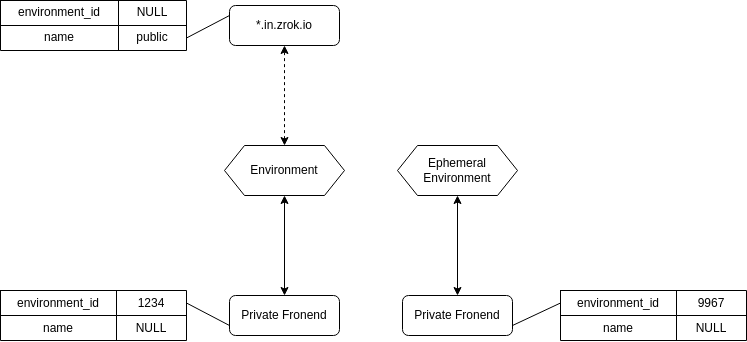
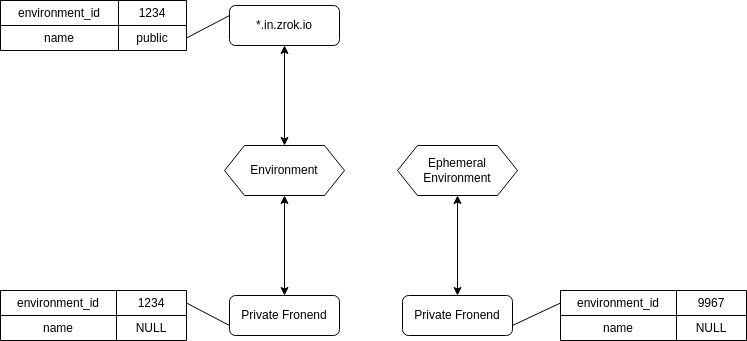
store.Frontend (#98, #88)

diff --git a/controller/store/frontend.go b/controller/store/frontend.go
@@ -1,0 +1,69 @@
+package store
+
+import (
+	"github.com/jmoiron/sqlx"
+	"github.com/pkg/errors"
+)
+
+type Frontend struct {
+	Model
+	EnvironmentId int
+	ZId           string
+	Name          *string
+}
+
+func (str *Store) CreateFrontend(envId int, f *Frontend, tx *sqlx.Tx) (int, error) {
+	stmt, err := tx.Prepare("insert into frontends (environment_id, z_id, name) values ($1, $2, $3) returning id")
+	if err != nil {
+		return 0, errors.Wrap(err, "error preparing frontends insert statement")
+	}
+	var id int
+	if err := stmt.QueryRow(envId, f.ZId, f.Name).Scan(&id); err != nil {
+		return 0, errors.Wrap(err, "error executing frontends insert statement")
+	}
+	return id, nil
+}
+
+func (str *Store) GetFrontend(id int, tx *sqlx.Tx) (*Frontend, error) {
+	i := &Frontend{}
+	if err := tx.QueryRowx("select * from frontends where id = $1", id).StructScan(i); err != nil {
+		return nil, errors.Wrap(err, "error selecting frontend by id")
+	}
+	return i, nil
+}
+
+func (str *Store) FindFrontendNamed(name string, tx *sqlx.Tx) (*Frontend, error) {
+	i := &Frontend{}
+	if err := tx.QueryRowx("select frontends.* from frontends where name = $1", name).Scan(i); err != nil {
+		return nil, errors.Wrap(err, "error selecting frontend by name")
+	}
+	return i, nil
+}
+
+func (str *Store) FindFrontendsForEnvironment(envId int, tx *sqlx.Tx) ([]*Frontend, error) {
+	rows, err := tx.Queryx("select frontends.* from frontends where environment_id = $1", envId)
+	if err != nil {
+		return nil, errors.Wrap(err, "error selecting frontends by environment_id")
+	}
+	var is []*Frontend
+	for rows.Next() {
+		i := &Frontend{}
+		if err := rows.StructScan(i); err != nil {
+			return nil, errors.Wrap(err, "error scanning frontend")
+		}
+		is = append(is, i)
+	}
+	return is, nil
+}
+
+func (str *Store) DeleteFrontend(id int, tx *sqlx.Tx) error {
+	stmt, err := tx.Prepare("delete from frontends where id = $1")
+	if err != nil {
+		return errors.Wrap(err, "error preparing frontends delete statement")
+	}
+	_, err = stmt.Exec(id)
+	if err != nil {
+		return errors.Wrap(err, "error executing frontends delete statement")
+	}
+	return nil
+}

diff --git a/controller/store/frontend_test.go b/controller/store/frontend_test.go
@@ -1,0 +1,1 @@
+package store

diff --git a/docs/v0.3_sharing_modes.md b/docs/v0.3_sharing_modes.md
@@ -48,6 +48,6 @@ The following illustration shows the possibilities available.
 
 ![v0.3 Frontend Selection](images/zrok_frontends_v0.3.png)
 
-The `*.in.zrok.io` frontend is a "public" frontend, available to all `zrok` users. Most `zrok` installations will want to have at least one public, global frontend for all public, internet-facing ingress traffic for private backend instances. In the underlying data store, the public frontend will have a row in the `frontends` table with a `NULL` `environment_id`, and a `name` set to `public` (or some other representative name).
+The `*.in.zrok.io` frontend is a "public" frontend, available to all `zrok` users. Most `zrok` installations will want to have at least one public, global frontend for all public, internet-facing ingress traffic for private backend instances. In the underlying data store, the public frontend will have a `name` set to `public` (or some other representative name), allowing users to reference that `frontend` using a friendly label.
 
-The other two "private" frontends are configured with an `environment_id` and no `name` label (the lack of a `name` label signifies that these are "private" frontends). The ephemeral environment is allocated when a `zrok` frontend request is made without an account on behalf of a private share.
+The other two "private" frontends are configured with no `name` label (the lack of a `name` label signifies that these are "private" frontends). The ephemeral environment is allocated when a `zrok` frontend request is made without an account on behalf of a private share.
